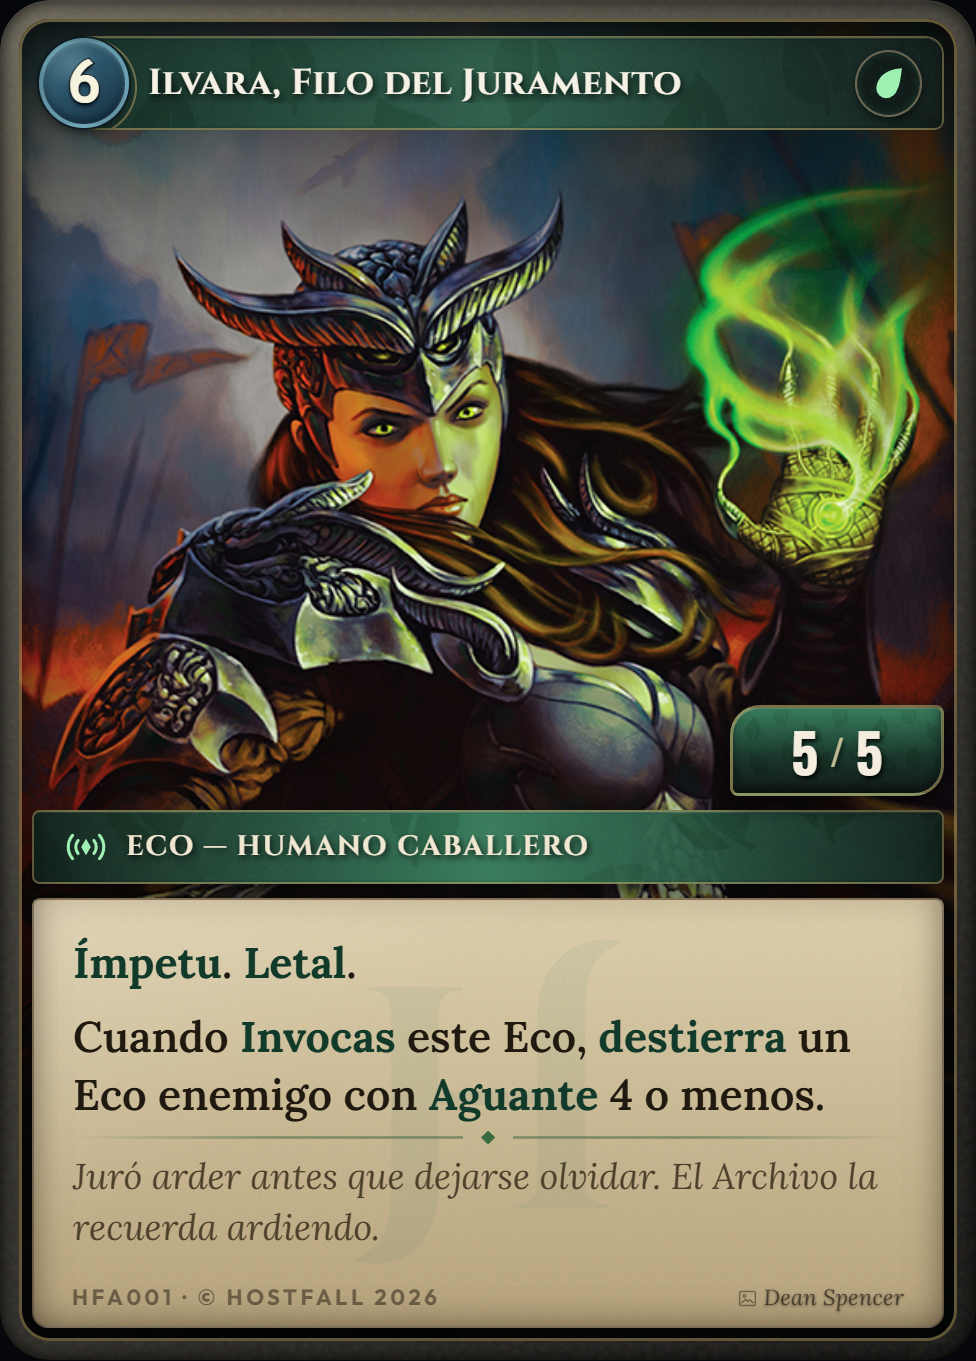
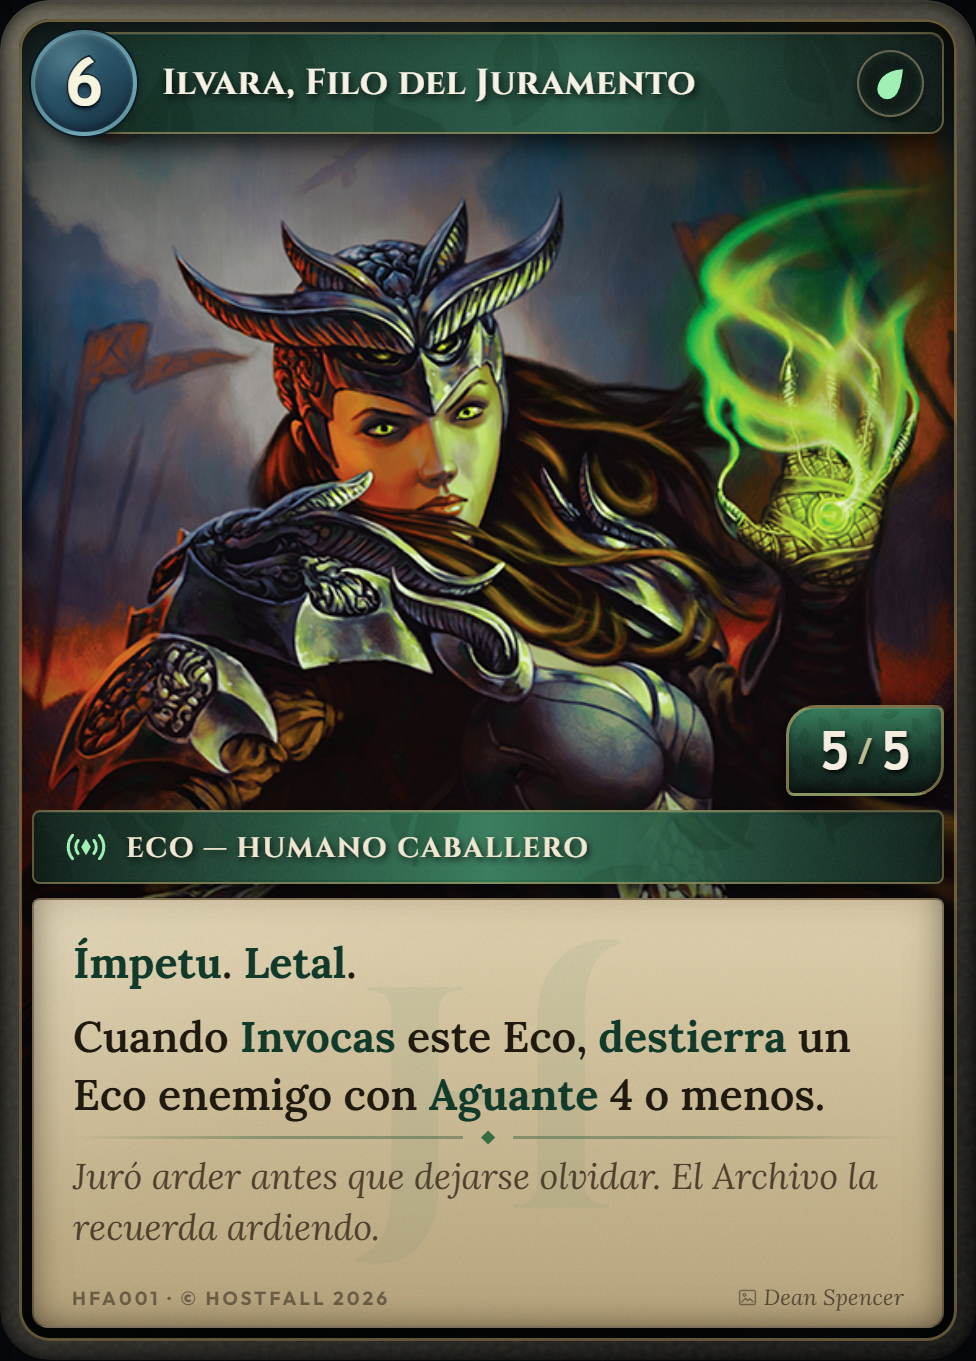
New cards

diff --git a/dev/tools/Cards/test_full_Art/full-art.css b/dev/tools/Cards/test_full_Art/full-art.css
@@ -269,6 +269,7 @@ body {
     width: 100%;
     height: 100%;
     color: var(--jade-bright);
+    transform: translate(-1px, 1px);
 }
 
 .effect {
@@ -312,7 +313,7 @@ body {
     border: 0;
     background: none;
     box-shadow: none;
-    text-shadow: 0 1px 3px rgba(0, 0, 0, 0.48);
+    text-shadow: none;
     pointer-events: none;
 }
 
@@ -326,7 +327,7 @@ body {
     stroke-linejoin: round;
     stroke-width: 1.7;
     opacity: 0.68;
-    transform: translateY(4px);
+    transform: translateY(3px);
 }
 
 .art-credit-name {
@@ -345,13 +346,13 @@ body {
     bottom: 100%;
     z-index: 14;
     display: flex;
-    min-width: 214px;
+    min-width: 158px;
     height: 91px;
     align-items: center;
     justify-content: center;
-    gap: 11px;
+    gap: 7px;
     margin-bottom: 14px;
-    padding: 0 28px;
+    padding: 0 14px;
     border: 3px solid rgba(191, 166, 106, 0.62);
     border-radius: 30px 8px 30px 8px;
     color: #f5eee0;
@@ -364,7 +365,8 @@ body {
         inset 0 1px rgba(255, 255, 255, 0.14),
         inset 0 -5px 9px rgba(0, 0, 0, 0.34),
         0 8px 20px rgba(0, 0, 0, 0.72);
-    font: 900 54px/1 "Oswald", sans-serif;
+    font: 900 54px/1 "Trebuchet MS", "Outfit", sans-serif;
+    font-variant-numeric: tabular-nums;
     text-shadow: 2px 3px 5px rgba(0, 0, 0, 0.9);
 }
 
@@ -462,50 +464,39 @@ body {
         radial-gradient(ellipse at 50% 40%, transparent 52%, rgba(0, 0, 0, 0.42));
 }
 
-/*
- * El contenedor del nombre empieza a la derecha del orbe y su borde lo rodea:
- * una mordida circular concéntrica con el coste. La mordida se hace con máscara
- * (quita el relleno y el borde recto) y el arco de oro lo dibuja ::before.
- *
- *   orbe: 90px de diámetro, centro en (84, 83) de la carta
- *   cabecera: empieza en ese mismo eje y abraza el orbe desde atrás
- *   mordida: radio 45, igual al orbe; el arco dorado aporta 2px exteriores
- */
+/* Banda clásica detrás del costo: sin concavidad y con salida difuminada. */
 .card--comun .head {
     position: absolute;
-    top: 36px;
+    top: 32px;
     right: 32px;
     left: 84px;
     z-index: 8;
     display: flex;
-    height: 94px;
+    height: 102px;
     align-items: center;
     gap: 17px;
-    padding: 0 20px 0 62px;
-    overflow: hidden;
-    border: 2px solid rgba(191, 166, 106, 0.55);
-    border-radius: 0 18px 9px 0;
-    background:
-        var(--noise),
-        linear-gradient(90deg, rgba(10, 40, 30, 0.94), rgba(30, 88, 64, 0.86) 48%, rgba(6, 20, 17, 0.94));
-    box-shadow:
-        inset 0 1px rgba(255, 255, 255, 0.12),
-        0 10px 26px rgba(0, 0, 0, 0.7);
-    -webkit-mask: radial-gradient(circle 45px at 0 47px, transparent 0 45px, #000 45.5px);
-    mask: radial-gradient(circle 45px at 0 47px, transparent 0 45px, #000 45.5px);
+    padding: 0 20px 0 78px;
+    isolation: isolate;
 }
 
-/* El arco comparte exactamente el centro de la máscara y del orbe. */
+.stats .val {
+    min-width: 0.62em;
+    text-align: center;
+}
+
 .card--comun .head::before {
     content: "";
     position: absolute;
-    top: 0;
-    left: -47px;
-    z-index: 1;
-    width: 94px;
-    height: 94px;
+    inset: 0;
+    z-index: 0;
     border: 2px solid rgba(191, 166, 106, 0.55);
-    border-radius: 50%;
+    border-radius: 18px 14px 14px 12px;
+    background:
+        var(--noise),
+        linear-gradient(90deg, rgba(10, 40, 30, 0.96), rgba(30, 88, 64, 0.9) 58%, rgba(6, 20, 17, 0.94) 100%);
+    box-shadow:
+        inset 0 1px rgba(255, 255, 255, 0.12),
+        0 10px 26px rgba(0, 0, 0, 0.7);
     pointer-events: none;
 }
 
@@ -514,6 +505,7 @@ body {
     position: absolute;
     inset: 2px;
     z-index: 0;
+    border-radius: 16px 12px 12px 10px;
     background: var(--elf-foliage) center 38% / cover no-repeat;
     mix-blend-mode: multiply;
     opacity: 0.33;
@@ -527,16 +519,22 @@ body {
 
 .card--comun .cost-gem {
     position: absolute;
-    top: 38px;
-    left: 39px;
+    top: 30px;
+    left: 31px;
     z-index: 10;
+    width: 106px;
+    height: 106px;
+}
+
+.card--comun .cost-gem span {
+    font-size: 68px;
 }
 
 .card--comun .title {
     min-width: 0;
     flex: 1;
     margin: 0;
-    overflow: hidden;
+    overflow: visible;
     color: #f6f1e5;
     font: 700 36px/1.08 "Cinzel", serif;
     letter-spacing: 0.015em;
@@ -608,6 +606,14 @@ body {
 .card--comun .typeband > * {
     position: relative;
     z-index: 1;
+}
+
+.card--comun .typeband > span:not(.type-icon) {
+    transform: translateY(2px);
+}
+
+.card--comun .typeband .type-icon {
+    transform: translateY(0);
 }
 
 .card--comun .typeband .type-icon {
@@ -711,6 +717,7 @@ body {
 
 .card--comun .footer-info {
     left: 38px;
+    font-size: 19px;
 }
 
 .card--comun .art-credit {
@@ -849,6 +856,27 @@ body {
     flex: 0 0 40px;
 }
 
+.card--cronica .stats {
+    border-color: rgba(191, 166, 106, 0.62);
+    border-radius: 24px 8px 24px 8px;
+    background:
+        var(--noise),
+        linear-gradient(180deg, rgba(30, 52, 40, 0.88), rgba(12, 25, 19, 0.93) 58%, rgba(3, 8, 7, 0.97));
+    box-shadow:
+        inset 0 1px rgba(255, 255, 255, 0.1),
+        inset 0 0 18px rgba(47, 125, 88, 0.12),
+        inset 0 -5px 9px rgba(0, 0, 0, 0.38),
+        0 8px 20px rgba(0, 0, 0, 0.72);
+}
+
+.card--cronica .typeband > span:not(.type-icon) {
+    transform: translateY(2px);
+}
+
+.card--cronica .typeband .type-icon {
+    transform: translateY(0);
+}
+
 .card--cronica .effect {
     color: #f0ebdc;
     font: 600 39px/1.36 "Lora", serif;
@@ -902,5 +930,6 @@ body {
 
 .card--cronica .footer-info {
     margin-top: 24px;
-    color: rgba(214, 203, 172, 0.42);
+    color: rgba(250, 245, 231, 0.9);
+    font-size: 19px;
 }
